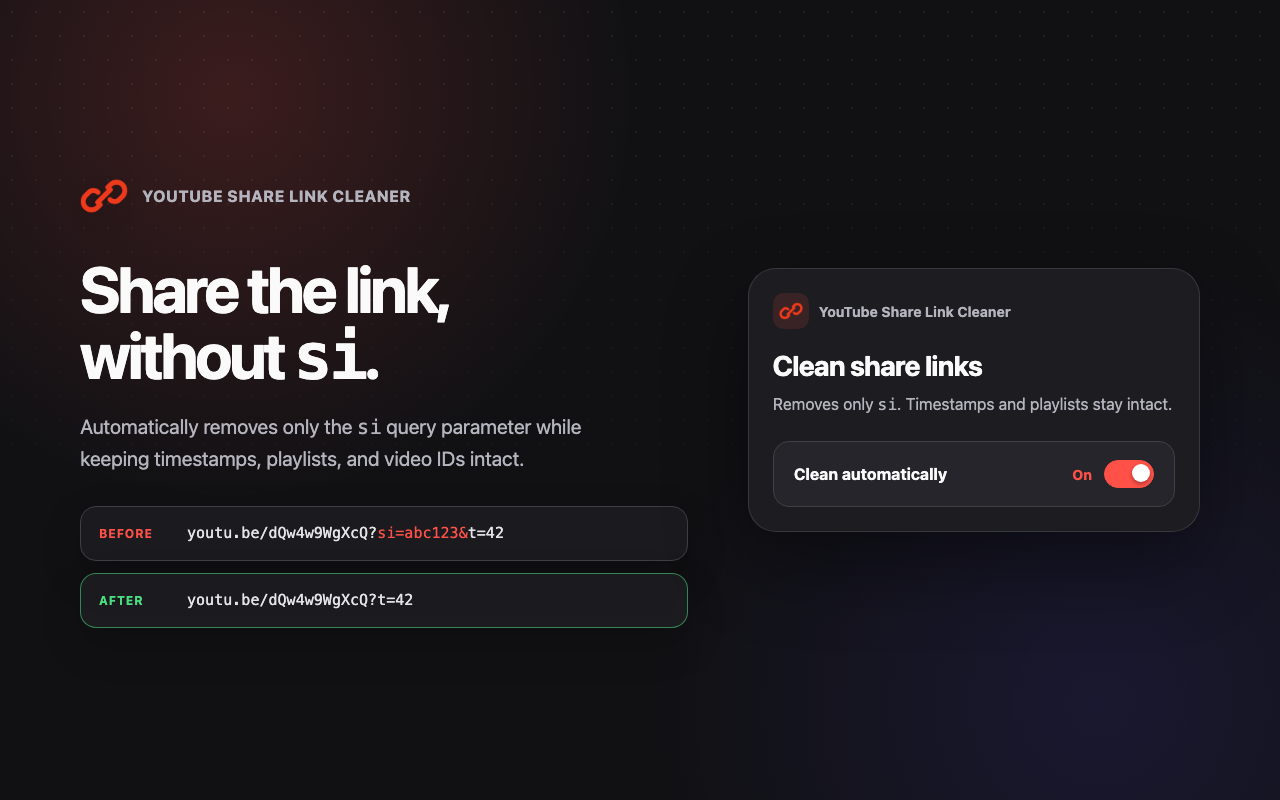
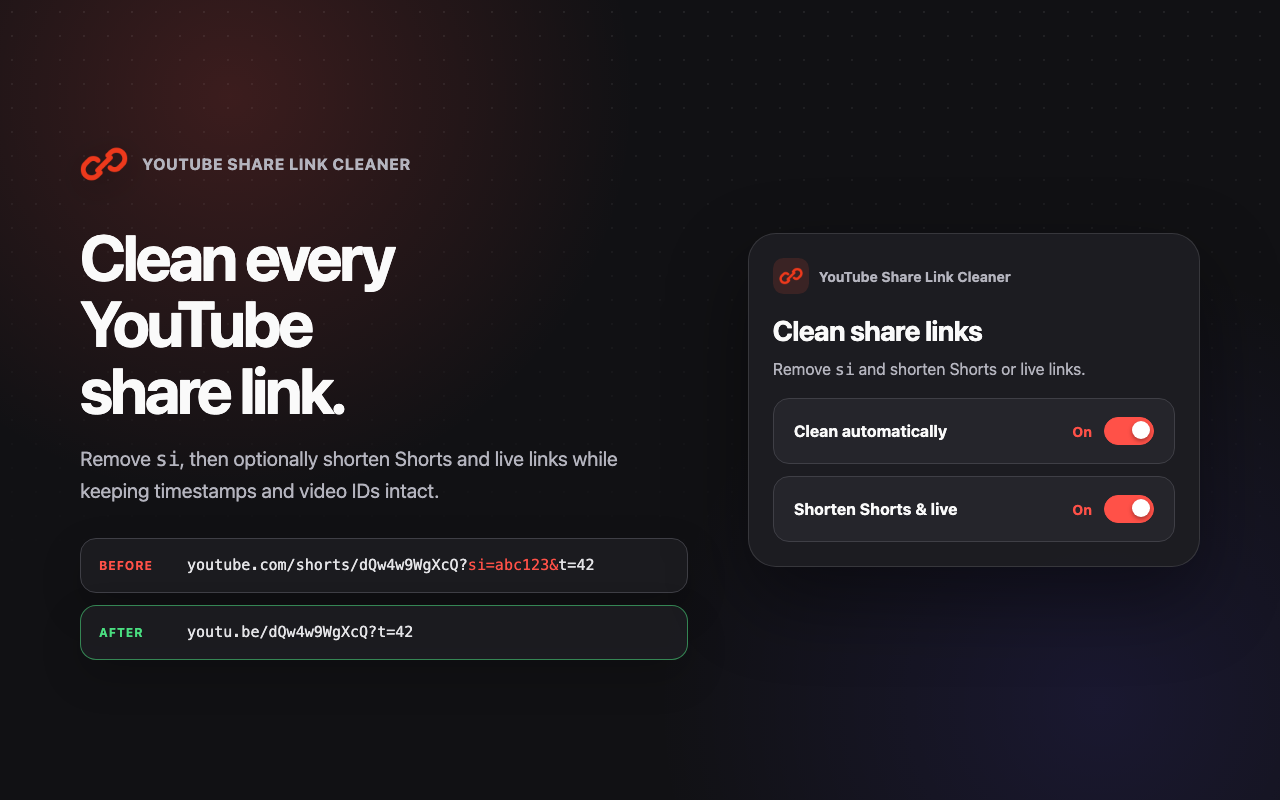
Refresh store screenshot for direct link shortening

diff --git a/scripts/store-assets/screenshot.html b/scripts/store-assets/screenshot.html
@@ -13,12 +13,12 @@
           <img src="../../icons/icon-128.png" alt="">
           <span>YouTube Share Link Cleaner</span>
         </div>
-        <h1 id="headline">Share the link, without <code>si</code>.</h1>
-        <p class="lead">Automatically removes only the <code>si</code> query parameter while keeping timestamps, playlists, and video IDs intact.</p>
+        <h1 id="headline">Clean every YouTube share link.</h1>
+        <p class="lead">Remove <code>si</code>, then optionally shorten Shorts and live links while keeping timestamps and video IDs intact.</p>
         <div class="transform" aria-label="Example link transformation">
           <div class="url-row before">
             <strong>Before</strong>
-            <code>youtu.be/dQw4w9WgXcQ?<span class="removed">si=abc123&amp;</span>t=42</code>
+            <code>youtube.com/shorts/dQw4w9WgXcQ?<span class="removed">si=abc123&amp;</span>t=42</code>
           </div>
           <div class="url-row after">
             <strong>After</strong>
@@ -33,9 +33,13 @@
           <span>YouTube Share Link Cleaner</span>
         </div>
         <h2>Clean share links</h2>
-        <p>Removes only <code>si</code>. Timestamps and playlists stay intact.</p>
+        <p>Remove <code>si</code> and shorten Shorts or live links.</p>
         <div class="setting">
           <span class="setting-label">Clean automatically</span>
+          <span class="setting-state">On <span class="switch" aria-hidden="true"></span></span>
+        </div>
+        <div class="setting">
+          <span class="setting-label">Shorten Shorts &amp; live</span>
           <span class="setting-state">On <span class="switch" aria-hidden="true"></span></span>
         </div>
       </aside>

diff --git a/scripts/store-assets/store-assets.css b/scripts/store-assets/store-assets.css
@@ -182,7 +182,7 @@ h1 {
 }
 
 .popup-preview p {
-  margin: 0.625rem 0 1.5rem;
+  margin: 0.625rem 0 1rem;
   color: var(--muted);
   font-size: 1rem;
   line-height: 1.5;
@@ -197,6 +197,10 @@ h1 {
   border: 1px solid var(--border);
   border-radius: 1rem;
   background: var(--surface-raised);
+}
+
+.setting + .setting {
+  margin-block-start: 0.75rem;
 }
 
 .setting-label {
